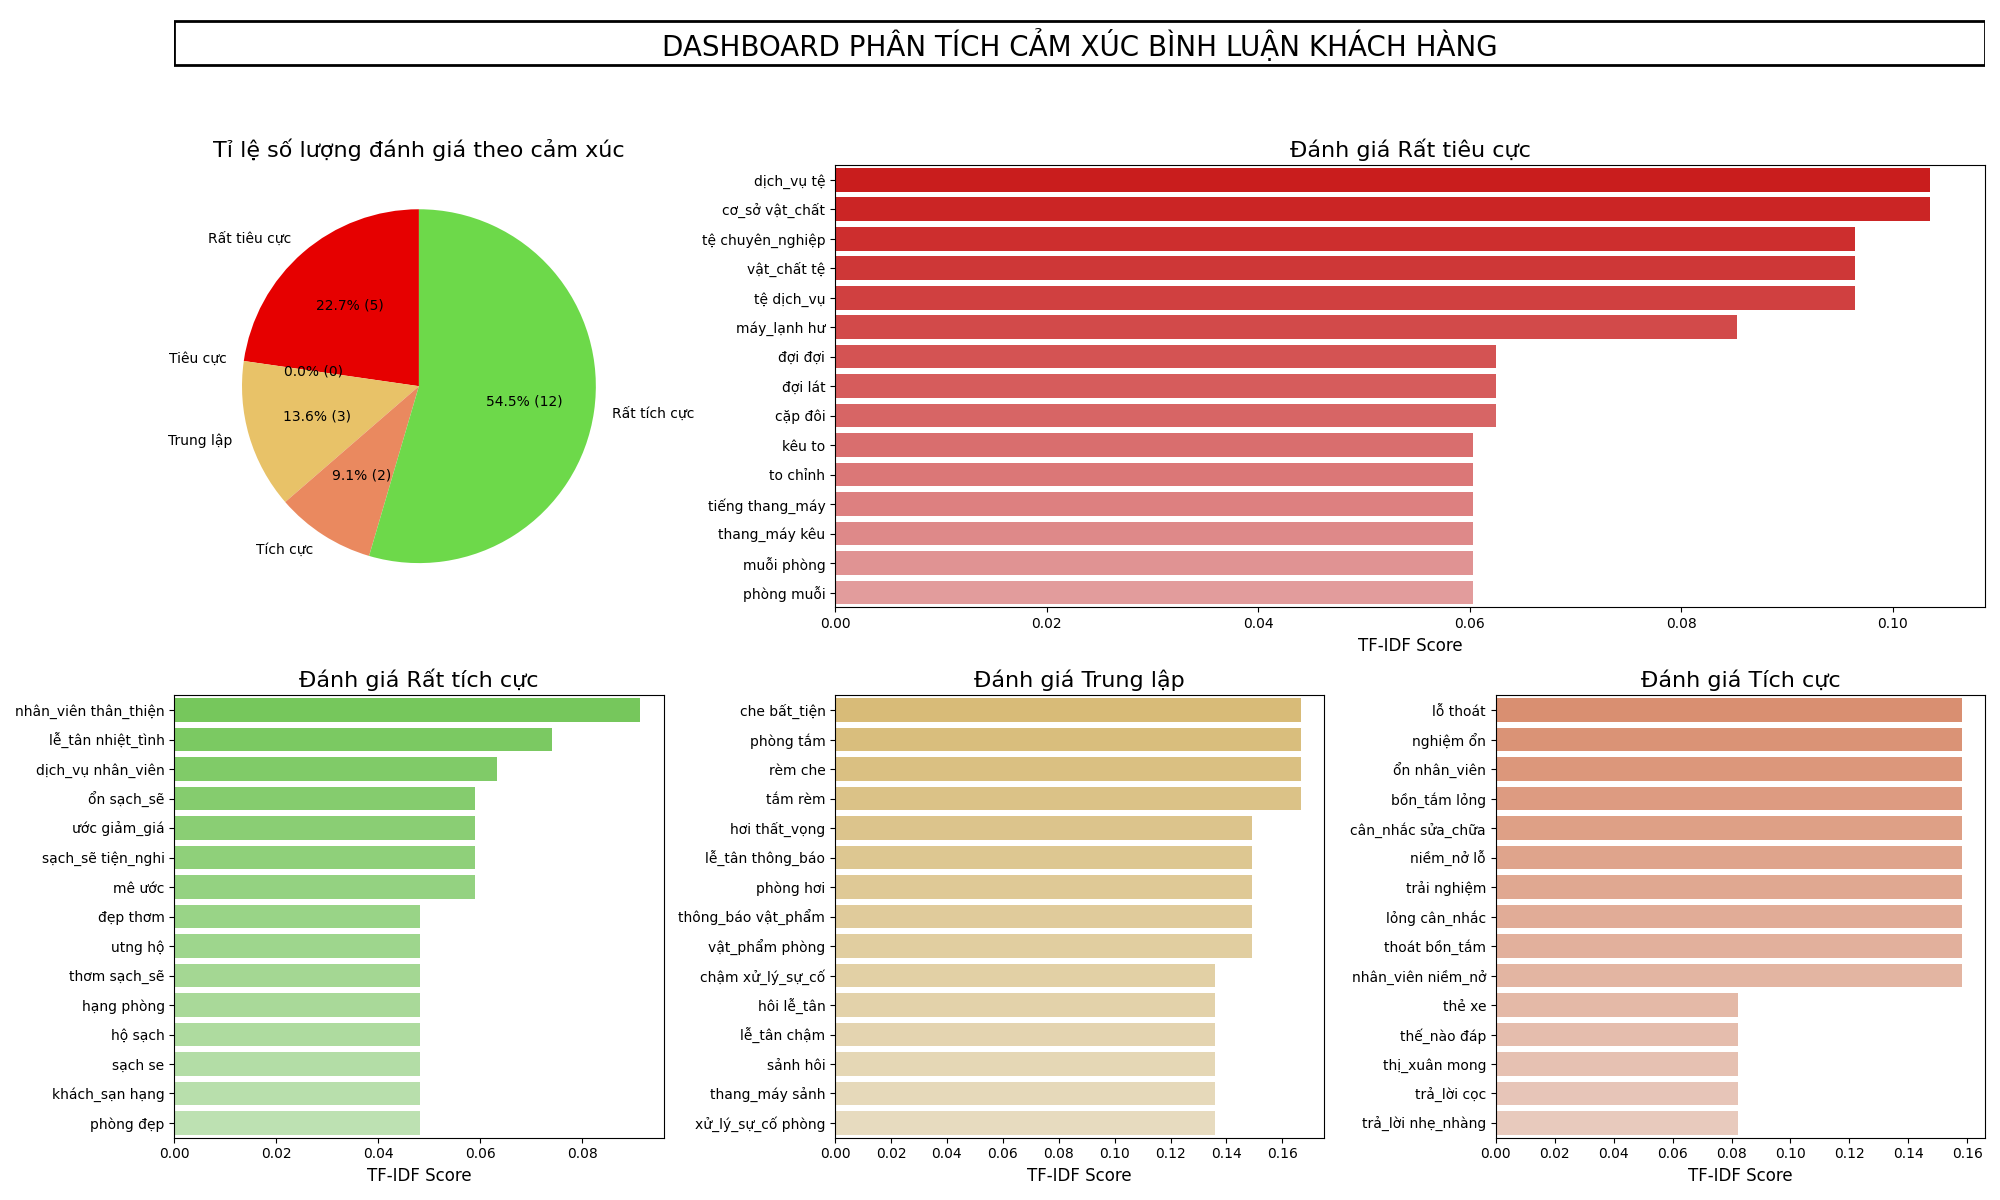
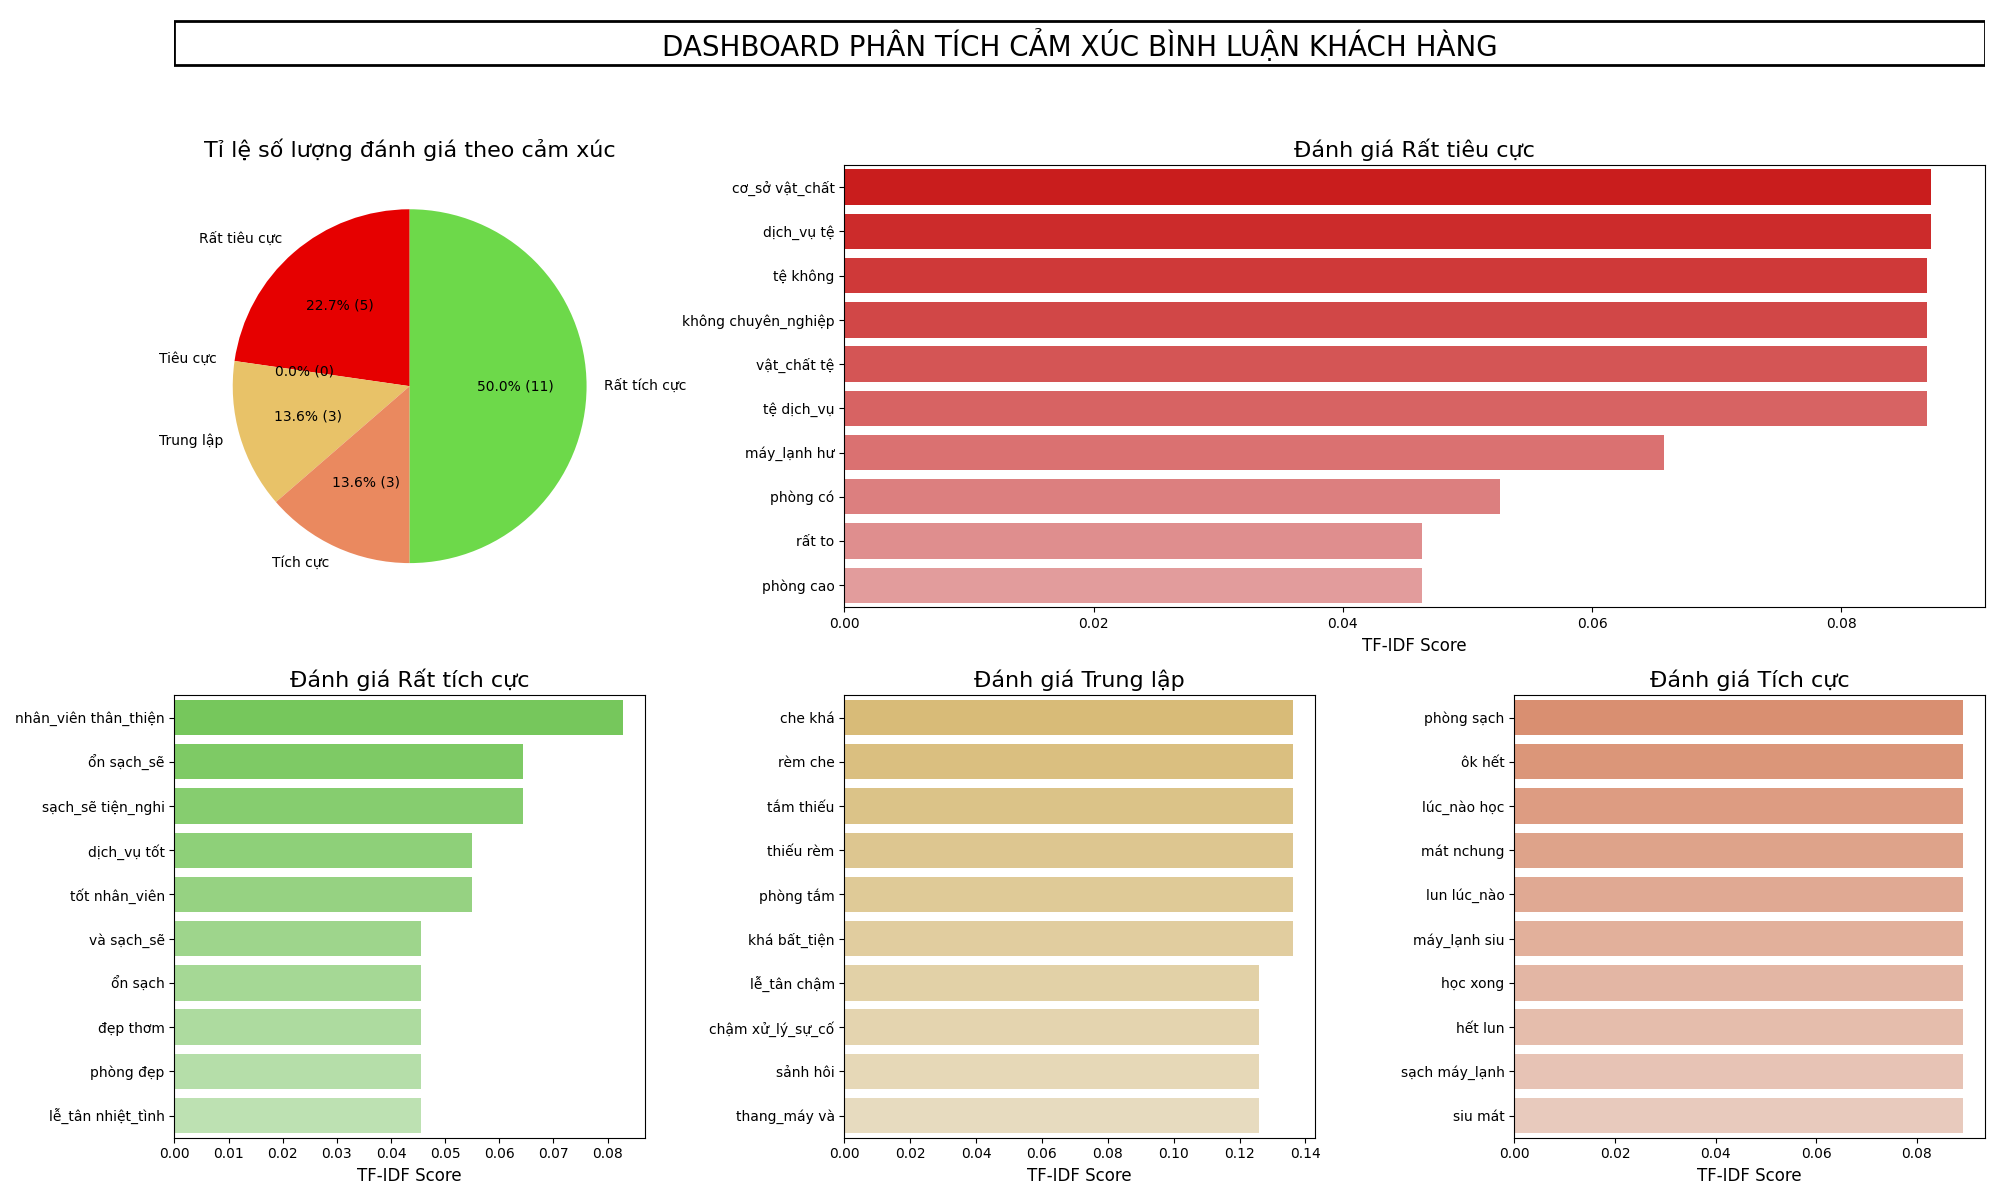
feat: update method view details

diff --git a/templates/multi_analysis.html b/templates/multi_analysis.html
@@ -148,12 +148,19 @@
                 return;
             }
 
-            // Chuyển hướng tới /view-detail với dữ liệu trong query string
-            const url = new URL('/view-details', window.location.origin);
-            url.searchParams.append('message', message);
+            // Chuyển hướng đến /view-details với giá trị message
+            const form = document.createElement("form");
+            form.method = "POST";
+            form.action = "/view-details";
 
-            // Chuyển hướng
-            window.location.href = url.toString();
+            const hiddenField = document.createElement("input");
+            hiddenField.type = "hidden";
+            hiddenField.name = "message";
+            hiddenField.value = message;
+
+            form.appendChild(hiddenField);
+            document.body.appendChild(form);
+            form.submit();
         }
     </script>
 </body>

diff --git a/utils.py b/utils.py
@@ -70,11 +70,11 @@ def stopword_and_tokenize_text(text, stopwords_path):
     # Tách từ 
     text = ViTokenizer.tokenize(text)
 
-    # Loại bỏ stopwords
-    if stopwords_path:
-        with open(f'{stopwords_path}/vietnamese-stopwords.txt', "r", encoding="utf-8") as f:
-            stopwords = set(word.strip() for word in f.readlines())
-        text = " ".join(word for word in text.split() if word not in stopwords)
+    # # Loại bỏ stopwords
+    # if stopwords_path:
+    #     with open(f'{stopwords_path}/vietnamese-stopwords.txt', "r", encoding="utf-8") as f:
+    #         stopwords = set(word.strip() for word in f.readlines())
+    #     text = " ".join(word for word in text.split() if word not in stopwords)
 
     return text
 
@@ -338,7 +338,7 @@ def process_input_texts(input_texts, model, tokenizer, max_length, data_path):
 
 
 # Kỹ thuật TF-IDF
-def extract_top_tfidf_words_per_rating(dataset, num_words):
+def extract_top_tfidf_words_per_rating(dataset, num_words=10):
     # Tạo TF-IDF vectorizer
     tfidf_vectorizer = TfidfVectorizer(ngram_range=(2,2),max_features=5000)  # Giới hạn số từ đặc trưng
     

diff --git a/app.py b/app.py
@@ -21,15 +21,15 @@ def single():
 def multiple():
     return render_template("multi_analysis.html")
 
-@app.route("/view-details")
+@app.route("/view-details", methods=["POST"])
 def view_details():
      # Lấy dữ liệu từ query string
     max_length = 60
-    message = request.args.get("message", "")
+    message = request.form.get("message", "")
     list_texts = process_input_texts(message, model, tokenizer, max_length, data_path)
     
     df_tfidf = pd.DataFrame(list_texts)
-    top_words_by_rating = extract_top_tfidf_words_per_rating(df_tfidf, num_words=15)
+    top_words_by_rating = extract_top_tfidf_words_per_rating(df_tfidf, num_words=10)
     plot_pie_and_tfidf_bars(top_words_by_rating, df_tfidf, data_path)
 
     print("message", message)
